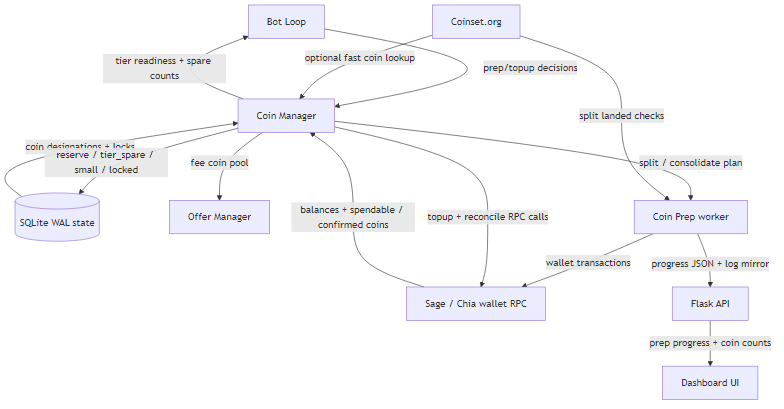
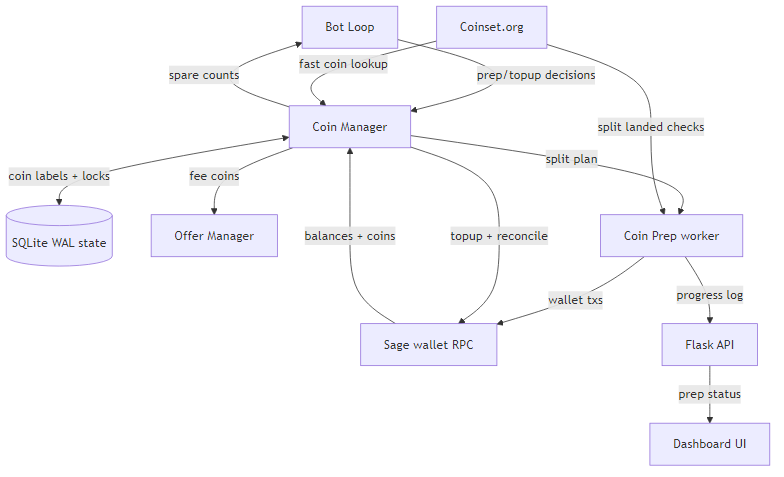
Clarify Sage-only architecture diagrams

diff --git a/README.md b/README.md
@@ -254,7 +254,7 @@ to 90 seconds:
 2. Check risk limits, circuit breakers, inventory skew, and live market depth.
 3. Sync live offers from the wallet and detect fills using wallet, Dexie, and
    Spacescan evidence.
-4. Cancel, requote, refill, or create offers through Sage/Chia wallet RPC.
+4. Cancel, requote, refill, or create offers through Sage wallet RPC.
 5. Persist offer state locally, then post/broadcast offer bech32 strings through
    Dexie and Splash.
 6. Reconcile coins, top up tier spares, and run runtime health checks.